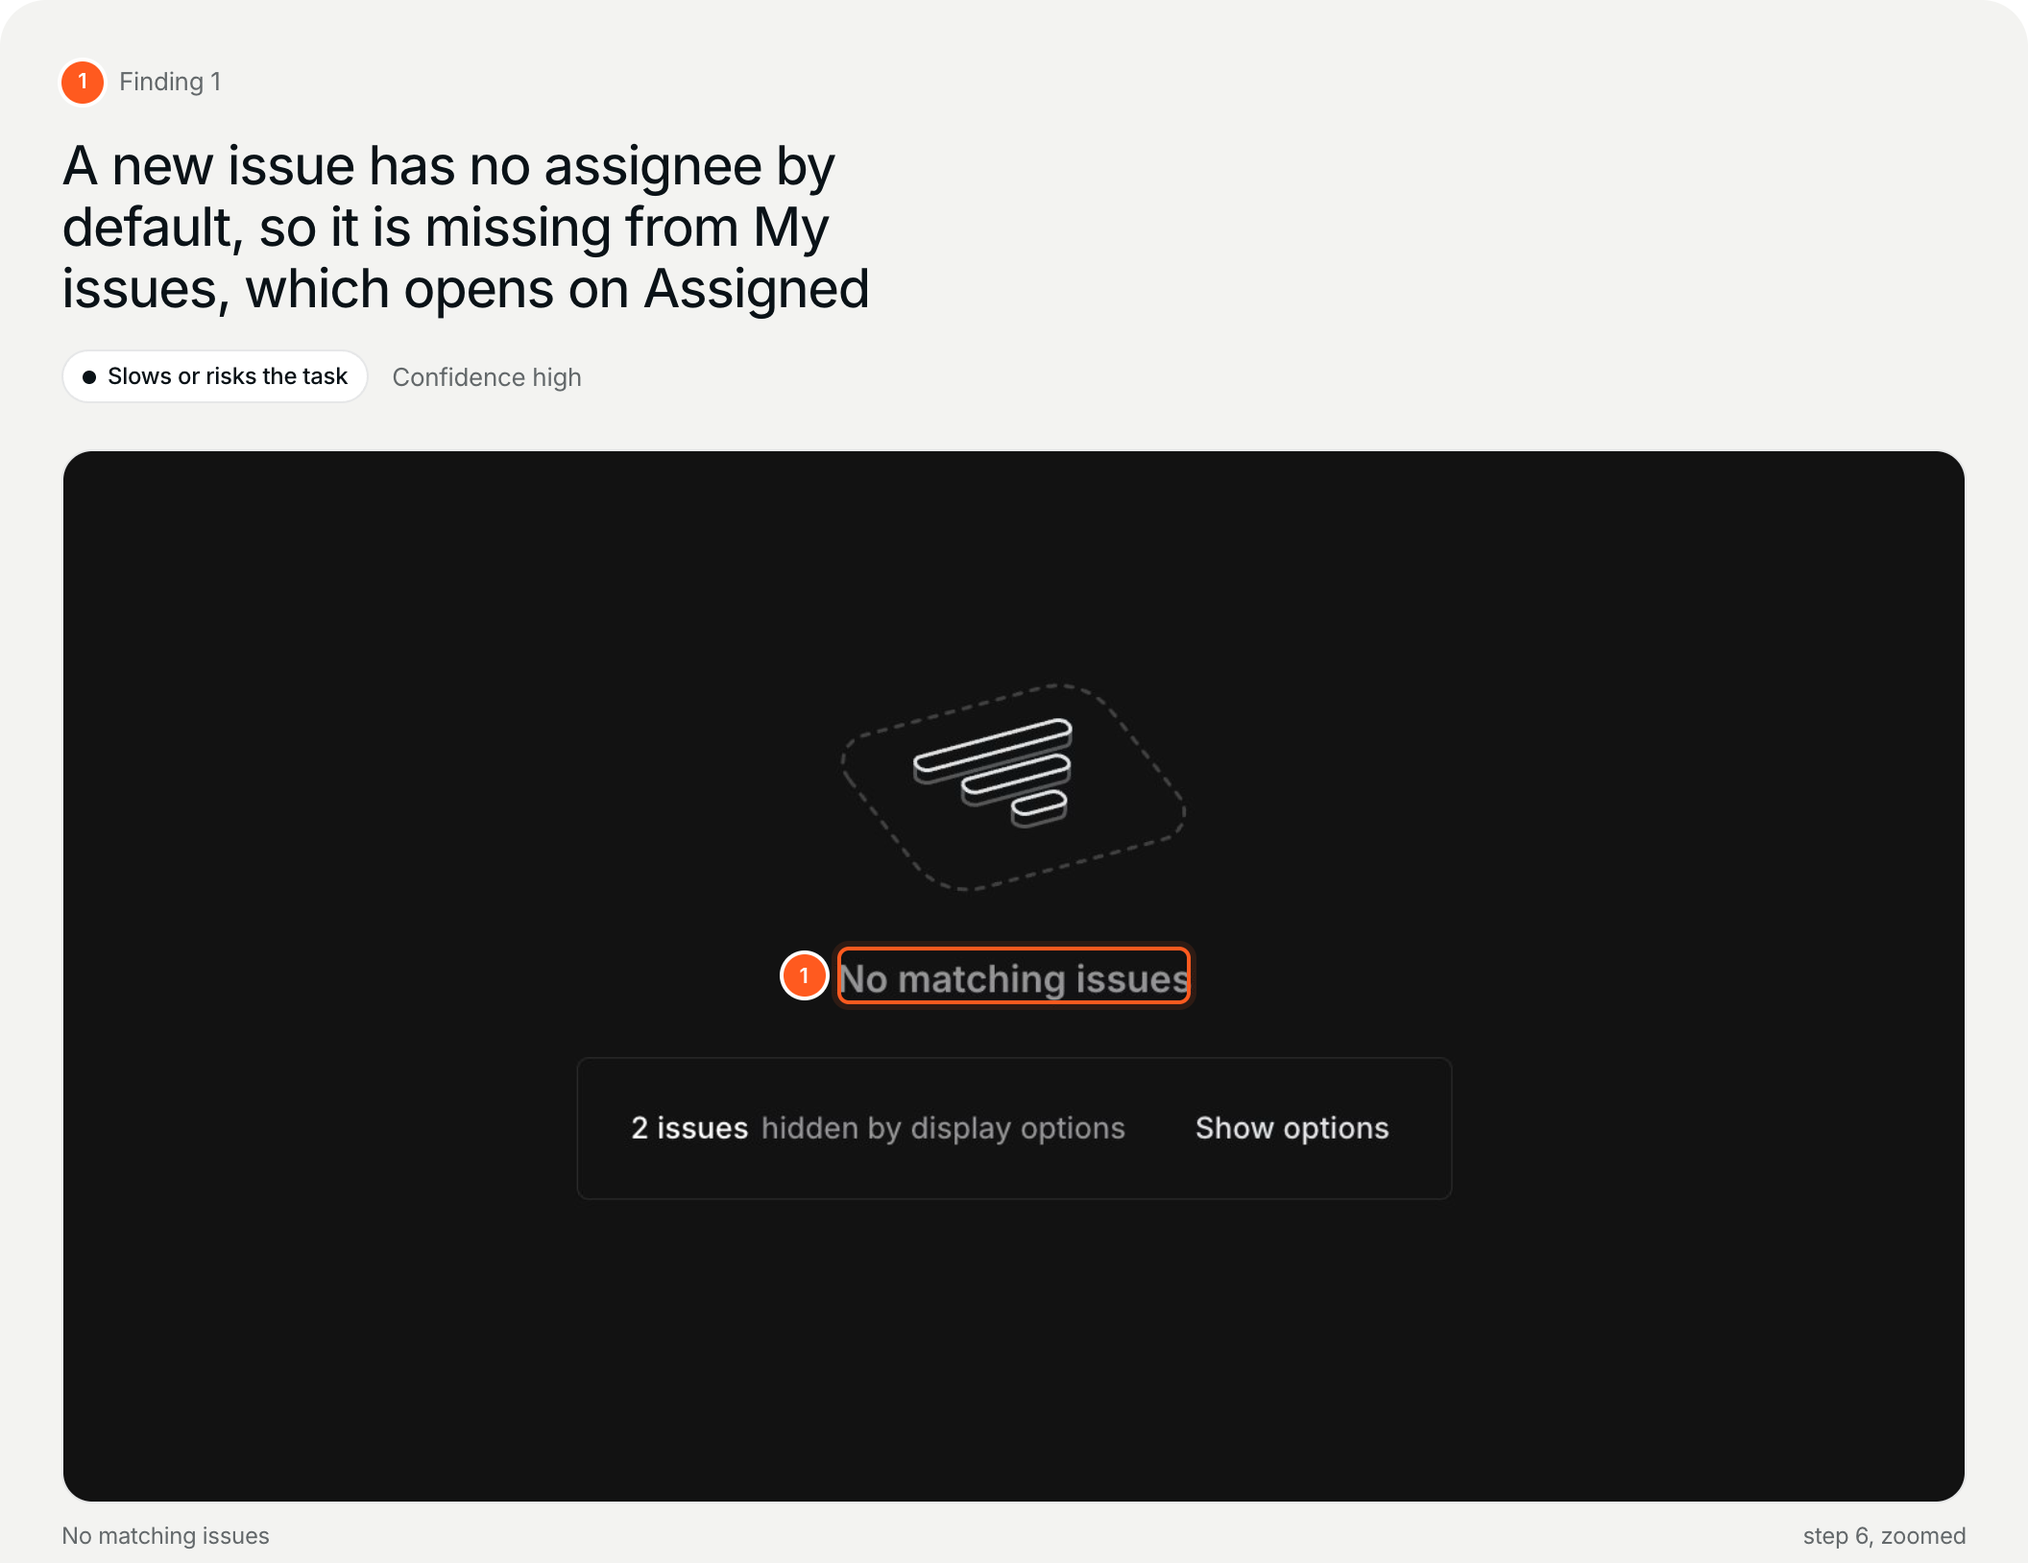
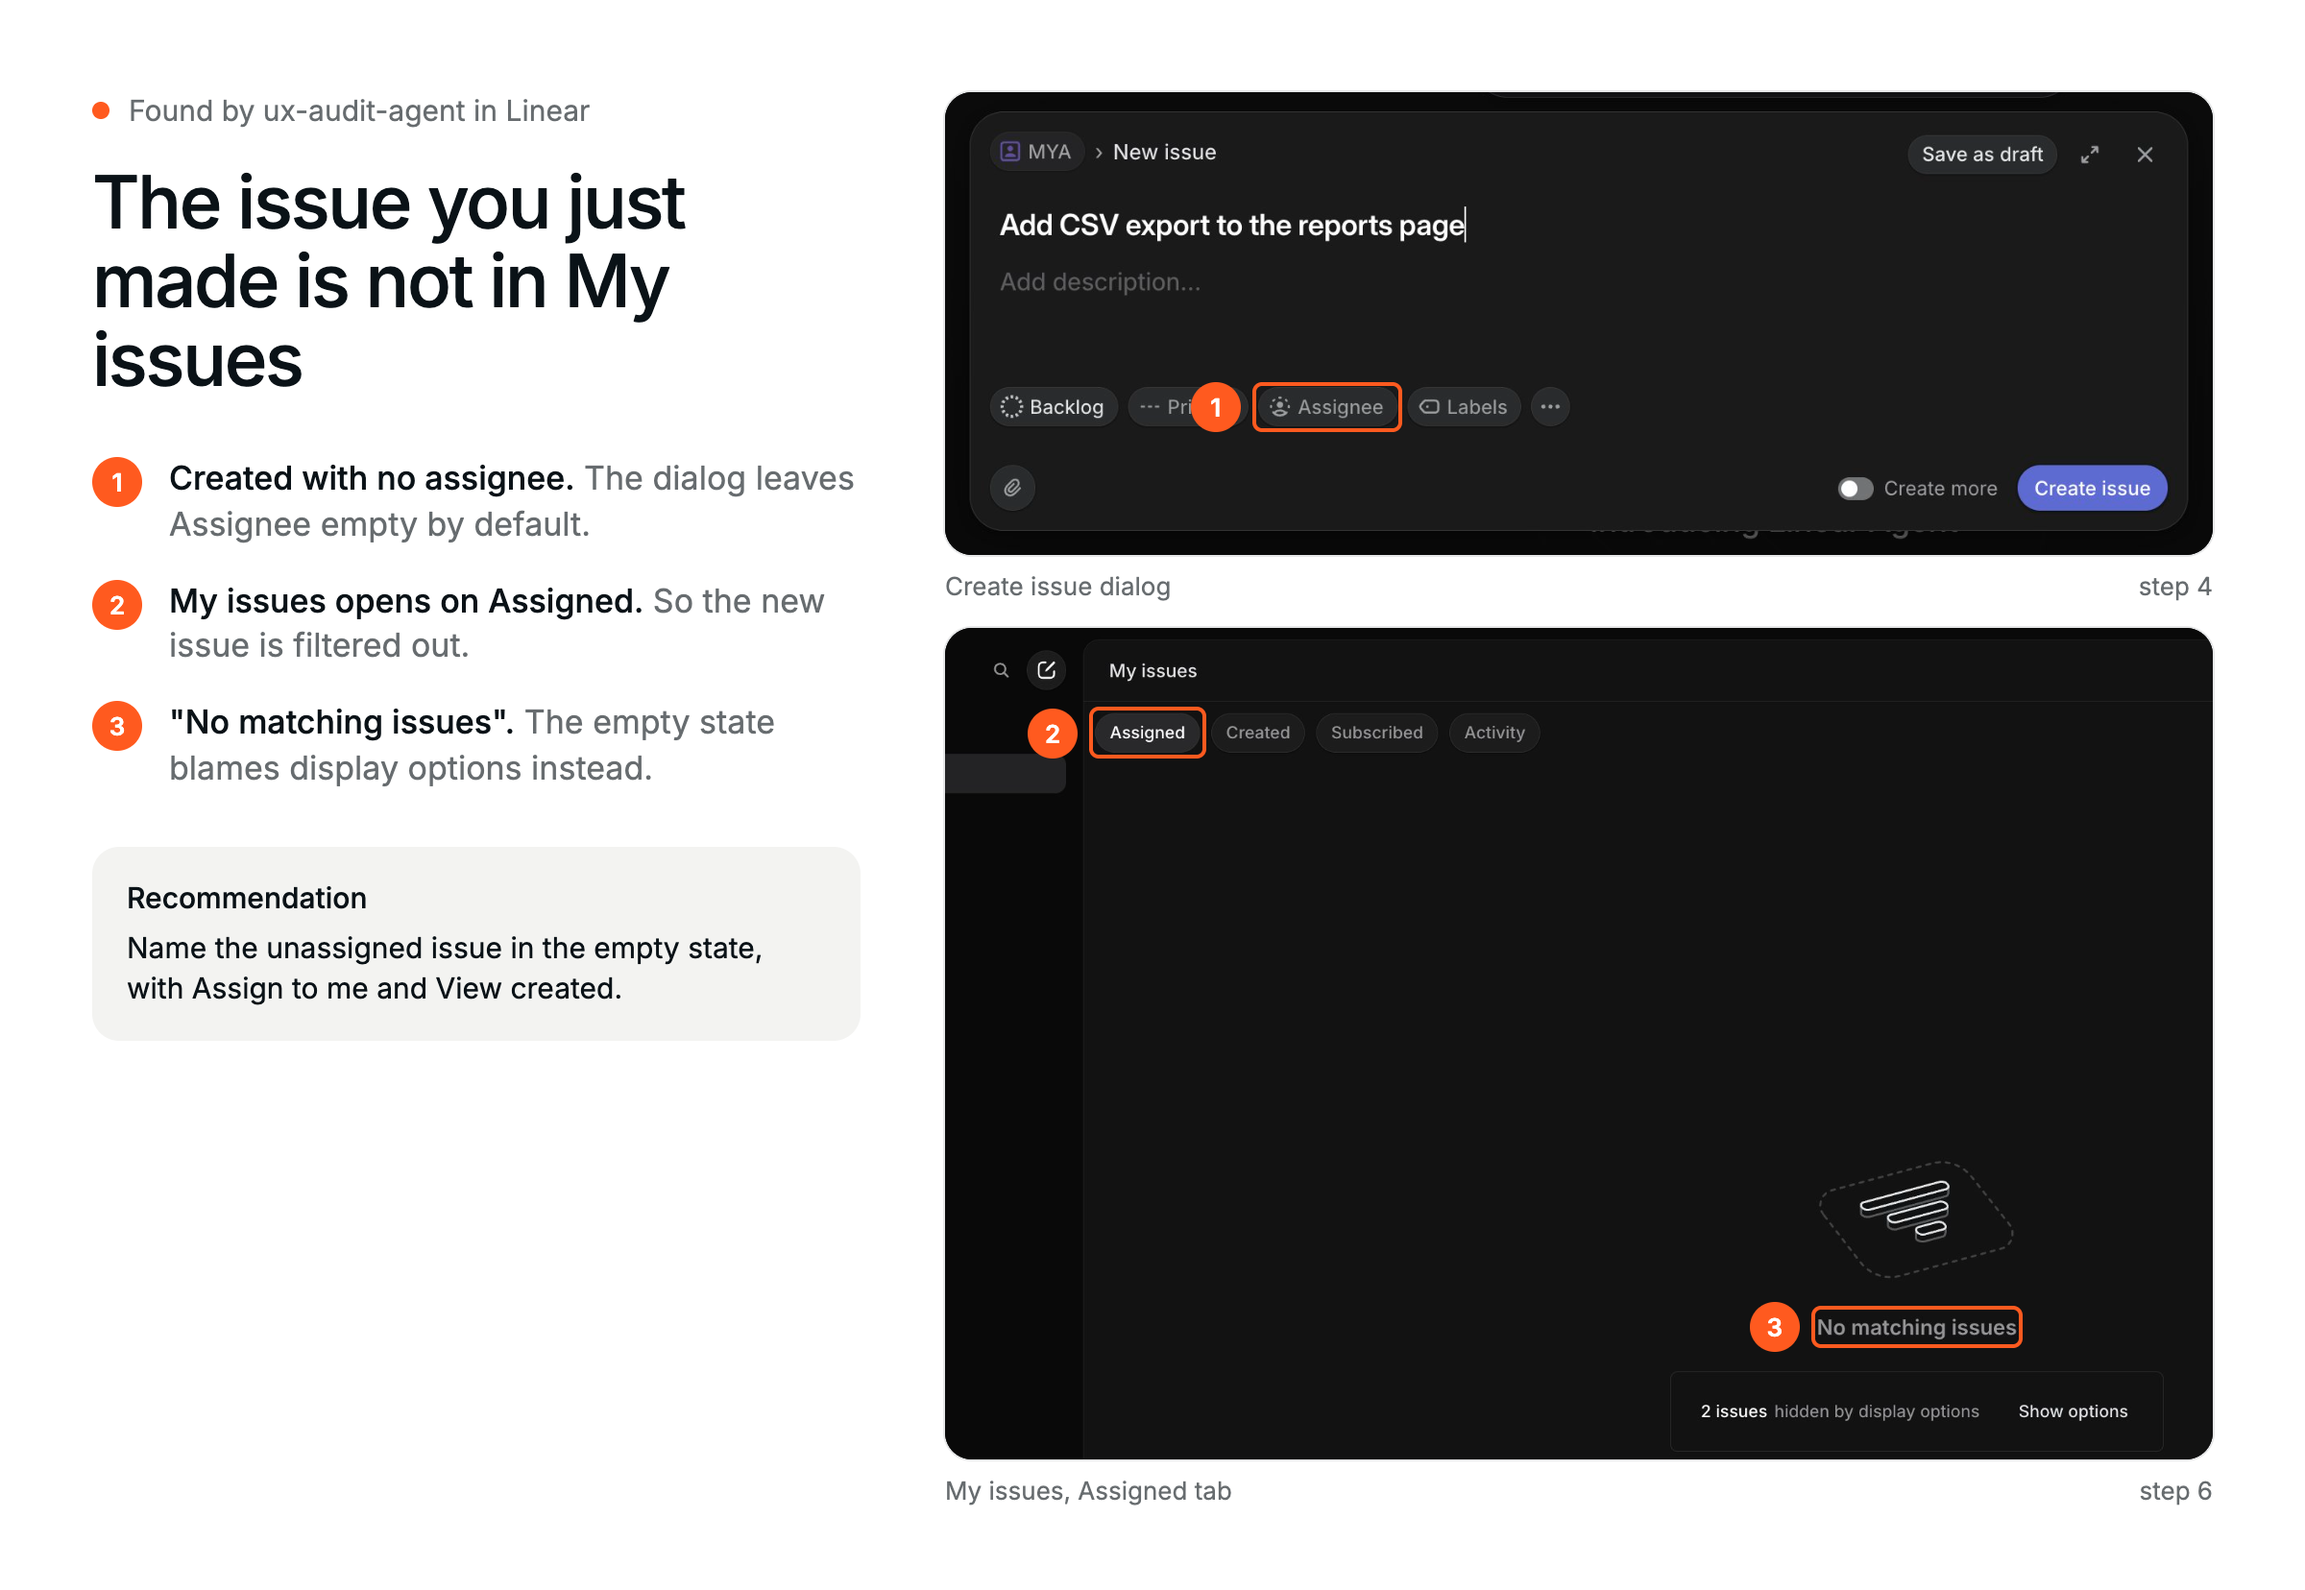
README hero: the Linear finding in one image

diff --git a/README.md b/README.md
@@ -2,7 +2,7 @@
 
 A UX audit agent for Claude Code. It walks a task in your live web product, in your own browser, and writes an evidence-backed report with marked screenshots. Use it for an onboarding audit, a usability review of a flow, or a first-run check before launch.
 
-[![Finding from the Linear example: a new issue has no assignee by default, so it is missing from My issues, which opens on Assigned](docs/images/report-finding.png)](examples/report/)
+[![Found by ux-audit-agent in Linear: the issue you just made is not in My issues. The create dialog leaves Assignee empty, My issues opens on Assigned, and the empty state says No matching issues](docs/images/report-finding.png)](examples/report/)
 
 **Found in Linear:** a new issue has no assignee, and My issues opens on Assigned, so the issue you just made is not there. [Full example report](examples/report/) (open `index.html` locally).
 
